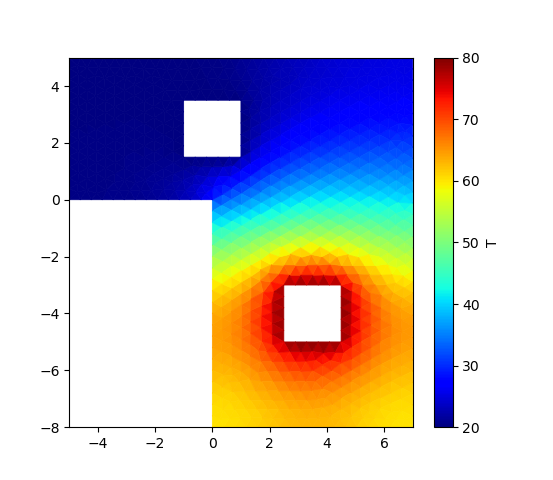
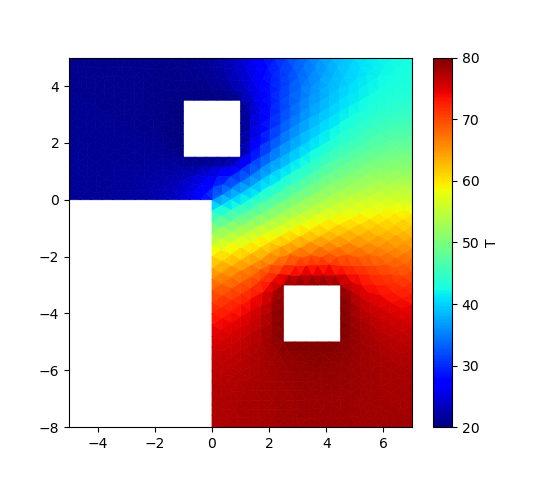
update

diff --git a/CFD软件学习/FiPy/Clip/main.py b/CFD软件学习/FiPy/Clip/main.py
@@ -2,14 +2,11 @@
 import numpy as np
 from fipy import *
 from fipy.tools import numerix
-from tqdm import tqdm
 
 # 打印完整数组
 np.set_printoptions(threshold=np.inf)
 
 # %%
-
-D = 1.
 
 T_hot = 80.
 T_cool = 20.
@@ -36,14 +33,9 @@ viewer = Viewer(
 
 # %%
 
-eq = TransientTerm() == DiffusionTerm(coeff=D)
+eq = DiffusionTerm()
 
-# %%
-
-timeStepDuration = 1
-
-for step in tqdm(range(10)):
-    eq.solve(var=T,dt=timeStepDuration)
+eq.solve(var=T)
 
 
 # %%

diff --git a/CFD软件学习/FiPy/Clip/Mesh.py b/CFD软件学习/FiPy/Clip/Mesh.py
@@ -1,6 +1,5 @@
 # %%
 
-import matplotlib.pyplot as plt
 import numpy as np
 import gmsh
 import os

diff --git a/CFD软件学习/FiPy/study/FiPy常用API.md b/CFD软件学习/FiPy/study/FiPy常用API.md
@@ -1,24 +1,25 @@
+#! https://zhuanlan.zhihu.com/p/614634508
 
 # FiPy常用API
 
 官方文档(https://www.ctcms.nist.gov/fipy/documentation/API.html)
 
-# 网格
+## 网格
 
-## [AbstractMesh](https://www.ctcms.nist.gov/fipy/fipy/generated/fipy.meshes.html#fipy.meshes.abstractMesh.AbstractMesh)
+### [AbstractMesh](https://www.ctcms.nist.gov/fipy/fipy/generated/fipy.meshes.html##fipy.meshes.abstractMesh.AbstractMesh)
 
 基类：object
 
 
-### [\_\_add__(other)](https://www.ctcms.nist.gov/fipy/fipy/generated/fipy.meshes.html#fipy.meshes.abstractMesh.AbstractMesh.__add__)
+#### [\_\_add__(other)](https://www.ctcms.nist.gov/fipy/fipy/generated/fipy.meshes.html##fipy.meshes.abstractMesh.AbstractMesh.__add__)
 
 用于平移网格
 
-### .aspect2D
+#### .aspect2D
 
 2D网格，y与x纵横比
 
-### .cellCenters
+#### .cellCenters
 
 返回`fipy.variables.cellVariable.CellVariable`，形状为`(2, cellNum)`
 
@@ -28,7 +29,7 @@ cellNum为网格单元的数量
 
 可通过`numpy.array`转化成`numpy`数组
 
-### .cellDistanceVectors
+#### .cellDistanceVectors
 
 返回`numpy.ndarray`，形状为`(2, faceNum)`
 
@@ -36,13 +37,13 @@ faceNum是网格面数
 
 该属性表示网格中心与相邻网格中心的矢量差
 
-### .cellFaceIDs
+#### .cellFaceIDs
 
 返回`numpy.ma.core.MaskedArray`，形状为`(3, cellNum)`
 
 该属性表示网格单元所对应的面（或边）的全局面（或边）ID
 
-### .cellToFaceDistanceVectors
+#### .cellToFaceDistanceVectors
 
 返回`numpy.ma.core.MaskedArray`
 
@@ -50,88 +51,113 @@ faceNum是网格面数
 
 对于2维网格，形状为`(2, 2, faceNum)`。`cellToFaceDistanceVectors[0][0][i]`表示该单元与其第`i`个边之间的距离向量的第一个分量，`cellToFaceDistanceVectors[0][1][i]`则表示该距离向量的第二个分量。（ChatGPT说的，不知道对不对）
 
-### .cellVolumes
+#### .cellVolumes
 
 返回`numpy.ndarray`，形状为`(cellNum,)`
 
 
-### .extents
+#### .extents
 
 返回`dict`
 
 表示网格坐标的范围
 
-### .exteriorFaces
+#### .exteriorFaces
 
 返回`fipy.variables.faceVariable.FaceVariable`，形状为`(faceNum,)`
 
 
-### .faceCenters
+#### .faceCenters
 
 返回`fipy.variables.faceVariable.FaceVariable`，形状为`(2, faceNum)`
 
 网格对象的每个面的中心坐标
 
-### .faceNormals
+#### .faceNormals
 
 返回`numpy.ma.core.MaskedArray`
 
 对于2维网格，形状为'(2, faceNum)'。此时，`(faceNormals[0][i], faceNormals[1][i])`表示全局边ID为`i`的边的法向量。
 
-### getNearestCell(point)
+#### getNearestCell(point)
 
 用于查找距离某个给定位置最近的网格单元
 
-### [.x.globalValue & .y.globalValue](https://www.ctcms.nist.gov/fipy/fipy/generated/fipy.meshes.html#fipy.meshes.abstractMesh.AbstractMesh.x)
+#### [.x.globalValue & .y.globalValue](https://www.ctcms.nist.gov/fipy/fipy/generated/fipy.meshes.html##fipy.meshes.abstractMesh.AbstractMesh.x)
 
 返回`numpy.ndarray`，表示网格中心的坐标
 
 
 
-## [Mesh](https://www.ctcms.nist.gov/fipy/fipy/generated/fipy.meshes.html#fipy.meshes.mesh.Mesh)
+### [Mesh](https://www.ctcms.nist.gov/fipy/fipy/generated/fipy.meshes.html##fipy.meshes.mesh.Mesh)
 
 基类：AbstractMesh
 
-### [\_\_mul__(factor)](https://www.ctcms.nist.gov/fipy/fipy/generated/fipy.meshes.html#fipy.meshes.mesh.Mesh.__mul__)
+#### [\_\_mul__(factor)](https://www.ctcms.nist.gov/fipy/fipy/generated/fipy.meshes.html##fipy.meshes.mesh.Mesh.__mul__)
 
 拉伸网格
 
 
-## [Mesh2D](https://www.ctcms.nist.gov/fipy/fipy/generated/fipy.meshes.html#module-fipy.meshes.mesh2D)
+### [Mesh2D](https://www.ctcms.nist.gov/fipy/fipy/generated/fipy.meshes.html##module-fipy.meshes.mesh2D)
 
 基类：Mesh
 
 
-## [Gmsh2D](https://www.ctcms.nist.gov/fipy/fipy/generated/fipy.meshes.html#fipy.meshes.gmshMesh.Gmsh2D)
+### [Gmsh2D](https://www.ctcms.nist.gov/fipy/fipy/generated/fipy.meshes.html##fipy.meshes.gmshMesh.Gmsh2D)
 
 基类：Mesh2D
 
-### 导入`.msh`文件
+#### 导入`.msh`文件
 
 详见(https://zhuanlan.zhihu.com/p/614003913)
 
-### 通过标签获取网格面
+####通过标签获取网格面
 
 详见(https://zhuanlan.zhihu.com/p/614003913)
 
-### 增加网格密度
+#### 增加网格密度
 
 官方文档内提了几句，没看懂
 
-# 变量
+## 变量
 
-# 边界条件
+## 边界条件
 
-# 求解项
+## 求解项
 
-# Viewer
+## Viewer
 
-## [AbstractViewer](https://www.ctcms.nist.gov/fipy/fipy/generated/fipy.viewers.html#fipy.viewers.viewer.AbstractViewer)
+### [AbstractViewer](https://www.ctcms.nist.gov/fipy/fipy/generated/fipy.viewers.html##fipy.viewers.viewer.AbstractViewer)
 
-### .fig
+#### .fig
 
 返回`matplotlib.figure.Figure`
 
-### _plot()
+#### _plot()
 
 基于当前的变量值绘制，更新`fig`属性
+
+### [MultiViewer](https://www.ctcms.nist.gov/fipy/fipy/generated/fipy.viewers.html##module-fipy.viewers.multiViewer)
+
+基类：AbstractViewer
+
+<!-- 一般当代码如下时，会返回`MultiViewer`类 -->
+
+#### .viewers
+
+返回普通`viewer`类的列表
+
+```python
+viewer = Viewer(
+    vars=(pressure, xVelocity, yVelocity)
+    )
+
+## 绘制pressure 的图
+viewer.viewers[0].plot()
+
+## 绘制xVelocity 的图
+viewer.viewers[1].plot()
+
+## 绘制yVelocity 的图
+viewer.viewers[2].plot()
+```

diff --git a/CFD软件学习/FiPy/Clip/介绍.md b/CFD软件学习/FiPy/Clip/介绍.md
@@ -1,0 +1,84 @@
+#! https://zhuanlan.zhihu.com/p/614915353
+# FiPy求解稳态热传导问题
+
+本文使用FiPy这个库，求解芯片工作时的温度分布。项目地址(https://github.com/cjyyx/CFD_Learning/tree/main/CFD%E8%BD%AF%E4%BB%B6%E5%AD%A6%E4%B9%A0/FiPy/Clip)
+
+## 物理建模
+
+![芯片工作](Image/Clip.png)
+
+如图，芯片工作时，有热源和冷源，且其外部边界是绝热的。
+
+我们用python调用gmsh库生成芯片的网格，代码地址(https://github.com/cjyyx/CFD_Learning/blob/main/CFD%E8%BD%AF%E4%BB%B6%E5%AD%A6%E4%B9%A0/FiPy/Clip/Mesh.py)
+
+![](PasteImage/2023-03-17-22-28-20.png)
+
+
+稳态热传导问题的偏微分方程为
+
+$$
+\Delta T=0
+$$
+
+其中$T$是温度场。
+
+并且设立边界条件，固定冷源温度为$T_{\text{cool}}$，热源温度为$T_{\text{hot}}$；芯片外部是绝热的，即温度的梯度为0。
+
+## 代码编写
+
+首先，声明需要的库，设定相关参数，导入模型
+
+```python
+import numpy as np
+from fipy import *
+from fipy.tools import numerix
+
+T_hot = 80.
+T_cool = 20.
+
+mesh = Gmsh2D("clip.msh2")
+```
+
+声明网格变量，并设定边界条件
+
+```python
+T = CellVariable(name="T",
+                 mesh=mesh,
+                 value=T_cool)
+
+T.constrain(T_hot, mesh.physicalFaces["hot"])
+T.constrain(T_cool, mesh.physicalFaces["cool"])
+T.faceGrad.constrain(0., mesh.physicalFaces["edge"])
+```
+
+可视化
+
+```python
+viewer = Viewer(
+    vars=T,
+    datamin=T_cool,
+    datamax =T_hot
+    )
+```
+
+求解稳态热传导方程
+
+```python
+eq = DiffusionTerm()
+eq.solve(var=T)
+```
+
+可视化保存结果至result.png
+
+```python
+viewer.plot("result.png")
+```
+
+最终结果
+
+![](./result.png)
+
+## 参考资料
+
+1. examples.diffusion.mesh20x20, https://www.ctcms.nist.gov/fipy/examples/diffusion/generated/examples.diffusion.mesh20x20.html
+2. Gmsh 4.11.1, https://gmsh.info/doc/texinfo/gmsh.html
